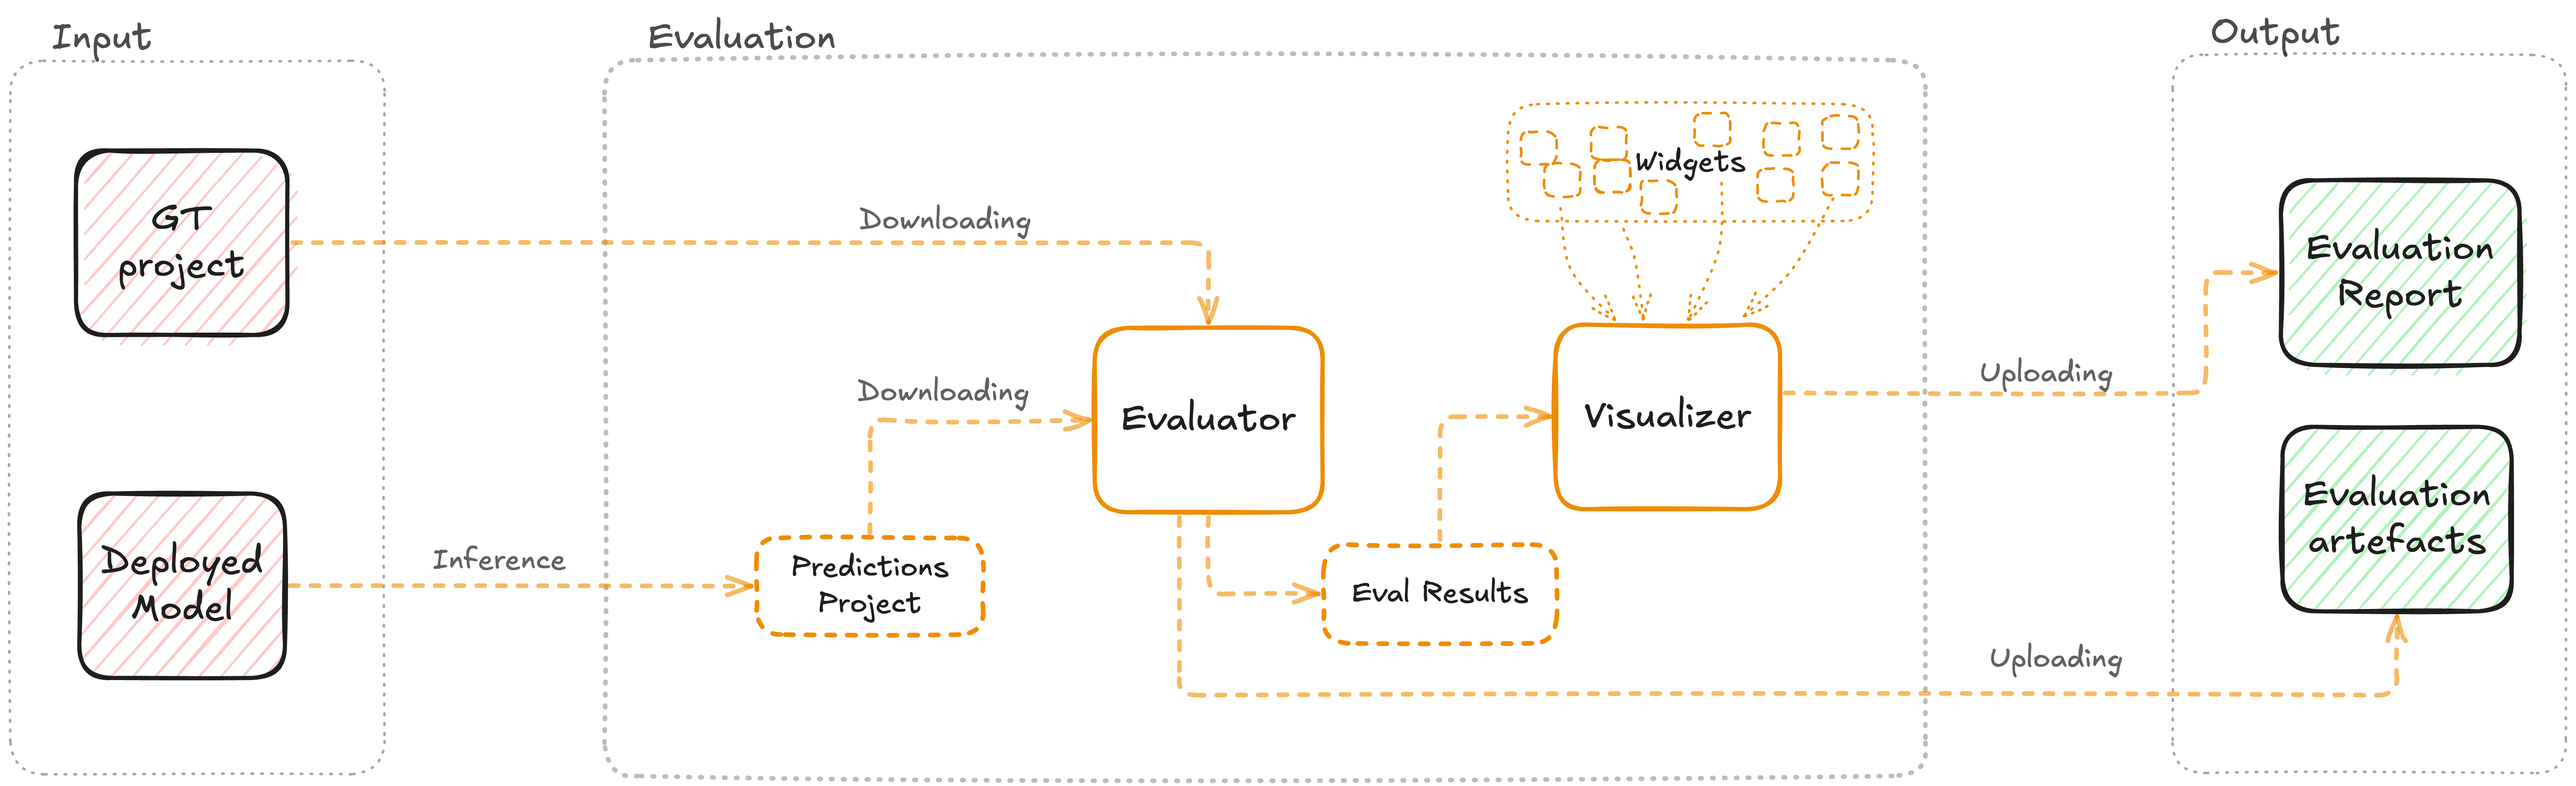
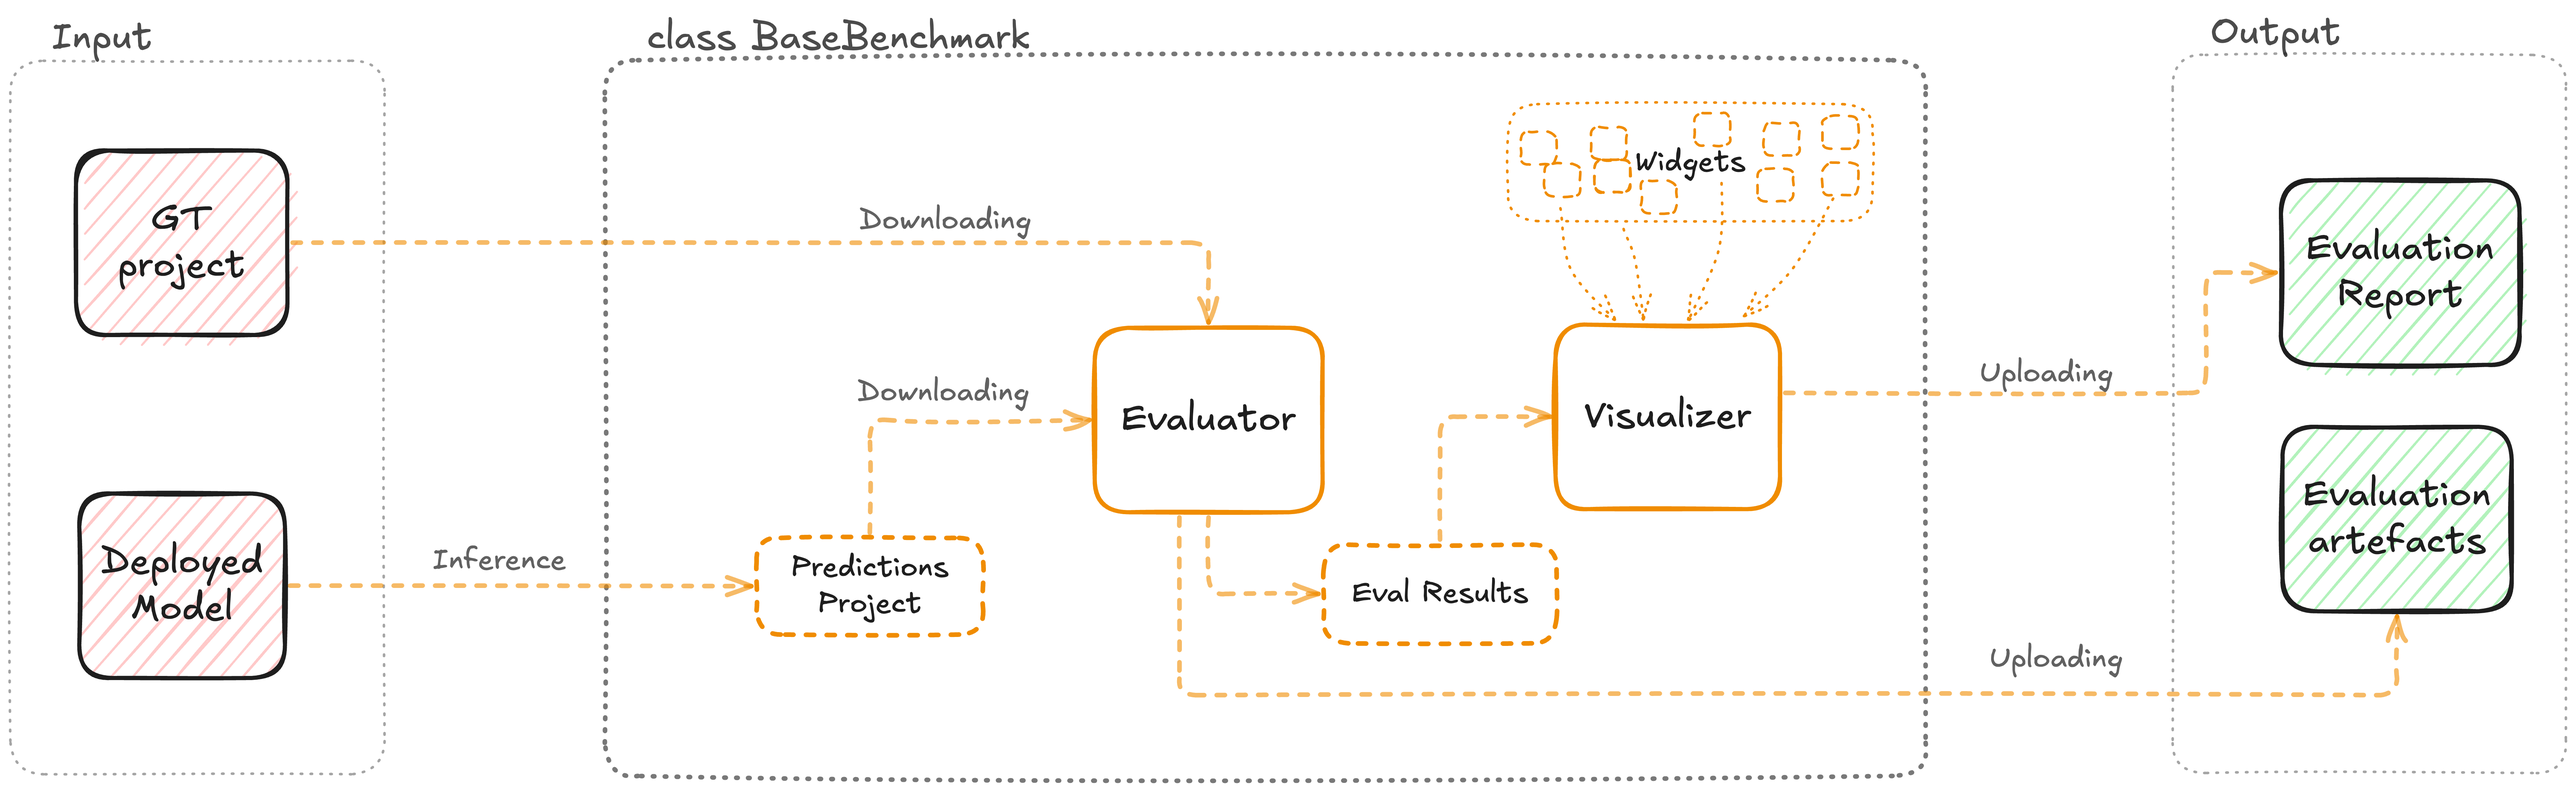
updates

Changed region(s): [[0.2497, 0.0312, 0.4058, 0.0935]]

diff --git a/neural-networks/model-evaluation-benchmark/custom-benchmark.md b/neural-networks/model-evaluation-benchmark/custom-benchmark.md
@@ -24,14 +24,14 @@ The custom benchmark implementation consists of several classes that interact wi
 {% hint style="info" %}
 Here are the main classes that you need to import and override to implement your custom benchmark:
 
-- **Evaluator**: The main class that calculates the evaluation metrics and saves them to disk.
-- **EvalResult**: A data interface class that allows easy access to the evaluation metrics later in the visualizer class.
-- **Visualizer**: A class that generates visualization template using widgets and saves it to disk.
-  - **Widgets**: A set of classes that define the content and appearance of the visualizations in the report.
+- **BaseEvaluator**: The main class that calculates the evaluation metrics and saves them to disk.
+- **BaseEvalResult**: A data interface class that allows easy access to the evaluation metrics later in the visualizer class.
+- **BaseVisualizer**: A class that generates visualization template using widgets and saves it to disk.
+  - **VisMetric** (widgets): A set of classes that define the content and appearance of the visualizations in the report. For object detection tasks, you can use the `DetectionVisMetric` class as a base class for your widgets.
 
 {% endhint %}
 
-🛠 Here is a brief overview of the relationships between the classes we will create:
+🛠 Brief overview of the relationships between the instances:
 
 ![Schema of the benchmark process using GT and Prediction projects](../../.gitbook/assets/benchmark_0.png)
 
@@ -43,10 +43,10 @@ You can find the source code for this guide [here]()
 
 ### Step 1. Implement Custom Evaluator class
 
-The main component of the custom benchmark is the `Evaluator` class. This class gets the local paths to the GT and Predictions projects, calculates the evaluation metrics, and saves them to disk.
+The main component of the custom benchmark is the `BaseEvaluator` class. This class gets the local paths to the GT and Predictions projects, calculates the evaluation metrics, and saves them to disk.
 
 {% hint style="warning" %}
-❕ Before you start, make sure you have Ground Truth and Predictions projects with the same structure of datasets and images. The projects should contain the same classes. If you need to run evaluations on a subset of classes, you can provide a `classes_whitelist` parameter.
+Before you start, make sure you have Ground Truth and Predictions projects with the same structure of datasets and images. The projects should contain the same classes. If you need to run evaluations on a subset of classes, you can provide a `classes_whitelist` parameter.
 {% endhint %}
 
 `BaseEvaluator` is a base class that provides the basic functionality for the evaluator.
@@ -198,7 +198,7 @@ Feel free to change the widget content and appearance to suit your needs. The ex
 
 <details>
 
-<summary><strong>`src/widgets/intro.py`</strong></summary>
+<summary><strong>src/widgets/intro.py</strong></summary>
 
 ```python
 # src/widgets/intro.py
@@ -252,7 +252,7 @@ Let's create the `KeyMetrics` section.
 
 <details>
 
-<summary><strong>`src/widgets/key_metrics.py`</strong></summary>
+<summary><strong>src/widgets/key_metrics.py</strong></summary>
 
 ```python
 # src/widgets/key_metrics.py
@@ -306,7 +306,7 @@ Let's create the `CustomMetric` section.
 
 <details>
 
-<summary><strong>`src/widgets/custom_metric.py`</strong></summary>
+<summary><strong>src/widgets/custom_metric.py</strong></summary>
 
 ```python
 # src/widgets/custom_metric.py
@@ -501,13 +501,13 @@ Run the `main.py` script – `python src/main.py` in the terminal or `Run` in yo
 
 <figure><img src="../../.gitbook/assets/benchmark.gif" alt=""><figcaption></figcaption></figure>
 
-After the evaluation is complete, you will receive **a link to the report in the logs**. You can open the report in the web interface by clicking on the link. Also, you will find the evaluation results in the Team Files in the folder that you specified in the script (`/model-benchmark/custom_benchmark/`)
+After the evaluation is complete, you will receive **a link to the report in the logs**. You can open the report in the web interface by clicking on the link. Also, you will find the evaluation results in the Team Files in the folder that you specified in the script (`/model-benchmark/custom_benchmark/vizualizations/Model Evaluation Report.lnk`)
 
 <figure><img src="../../.gitbook/assets/benchmark_result.png" alt=""><figcaption></figcaption></figure>
 
 hooray! 🎉 You have successfully implemented a custom benchmark evaluation in Supervisely!
 
-But wait, there is another way to run the custom benchmark using Deployed NN Model. Let's move on to the next step.
+But wait, there is another way to run the custom benchmark – using Deployed NN Model. Let's move on to the next step.
 
 ## Part 2. Custom Benchmark on Deployed Model
 
@@ -529,14 +529,14 @@ from supervisely.nn.task_type import TaskType
 
 
 class CustomBenchmark(BaseBenchmark):
-    visualizer_cls = MyVisualizer  # ⬅ change the visualizer class
+    visualizer_cls = MyVisualizer  # ⬅ the visualizer class
 
     @property
     def cv_task(self) -> str:
-        return TaskType.INSTANCE_SEGMENTATION  # ⬅ change the task type
+        return TaskType.OBJECT_DETECTION  # ⬅ the task type
 
     def _get_evaluator_class(self) -> type:
-        return MyEvaluator  # ⬅ change the evaluator class
+        return MyEvaluator  # ⬅ the evaluator class
 ```
 
 That's it! And you are ready to run the custom benchmark on the deployed model session.
@@ -545,7 +545,7 @@ Here is a brief overview of the relationships between the classes in this scenar
 
 ![Schema of the benchmark process with GT project and a deployed model](../../.gitbook/assets/benchmark_2.png)
 
-Let's move on to the next step and integrate the custom benchmark with **the GUI interface**.
+Let's move on to the next step and integrate the custom benchmark with **the GUI interface** 🎨.
 
 ## Part 3. Plug-in the Custom Benchmark to the GUI
 
@@ -566,7 +566,7 @@ Now, we will upgrade the `main.py` from the simple script to the `sly.Applicatio
 
 <details>
 
-<summary><strong>`src/main.py`</strong></summary>
+<summary><strong>src/main.py</strong></summary>
 
 ```python
 import os
